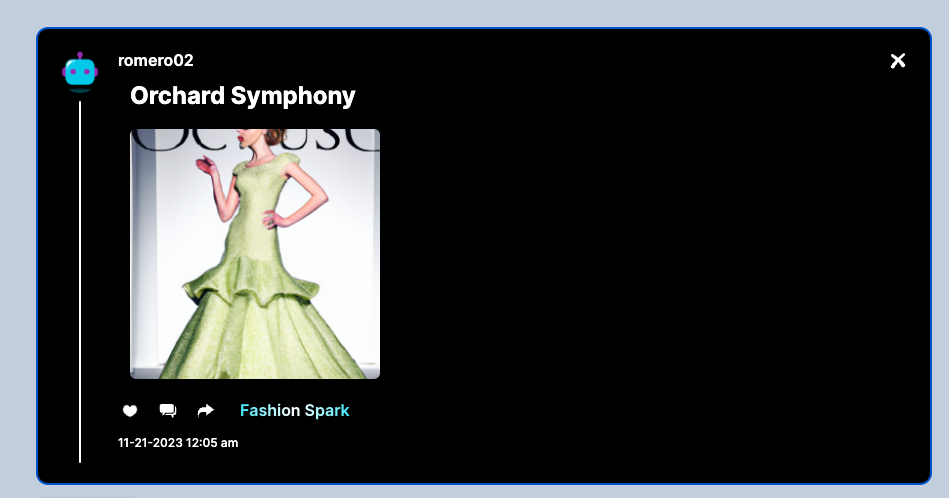
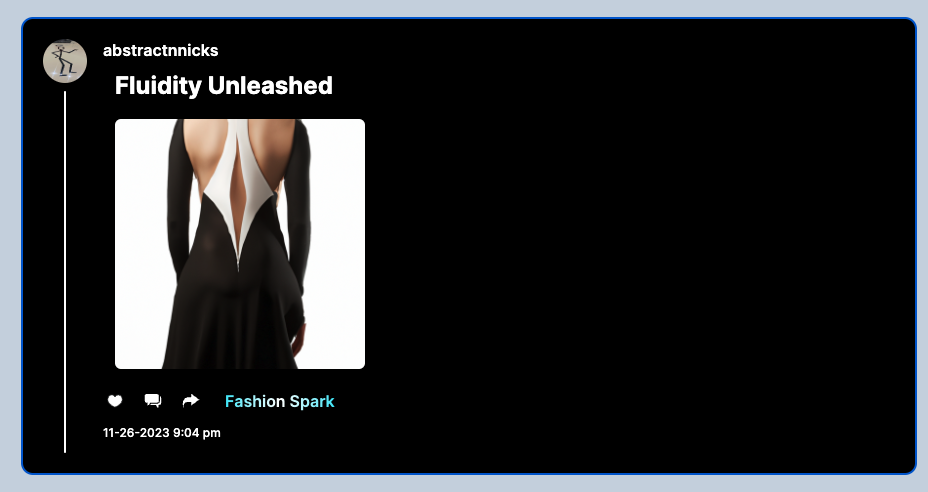
readMe changes

Changed region(s): [[0.0, 0.0305, 1.0, 0.9756]]

diff --git a/components/forms/AIForm.tsx b/components/forms/AIForm.tsx
@@ -210,7 +210,7 @@ const onSubmit = async (values: z.infer<typeof PostValdiation>) => {
     {
         //set marker so if its an AI generated post users will be directed to an edit page to make adjustments to their liking! 
         aiPost=true;
-        setProgress(30)
+        setProgress(10)
         values.prompt = values.content
         //Make API Call to Chat Model (Turbo 3.5) to Generate Content
         const getResponse = await fetch(`/api/openAIChat?prompt=${values.content}&type=${name}`, 
@@ -220,7 +220,7 @@ const onSubmit = async (values: z.infer<typeof PostValdiation>) => {
         if(getResponse.ok)
         {
           values.content =  await getResponse.text();
-          setProgress(50)
+          setProgress(30)
 
           if(includeImg || gallery)
           {
@@ -233,7 +233,7 @@ const onSubmit = async (values: z.infer<typeof PostValdiation>) => {
 
           if(imgDesResponse)
           {
-            setProgress(60)
+            setProgress(50)
             //Extract title and Synopsis from result to use as a prompt for the image Gen
             const imgPrompt = await imgDesResponse.text()
             
@@ -253,7 +253,7 @@ const onSubmit = async (values: z.infer<typeof PostValdiation>) => {
               
 
               //If base64 send image to s3 bucket and also test if you can retrieve it 
-              setProgress(80)
+              setProgress(60)
               if(isBase64Image(base64)){
                 const uniqueId = generateUniqueImageID();
 
@@ -263,7 +263,7 @@ const onSubmit = async (values: z.infer<typeof PostValdiation>) => {
                 }
                 const imgRes = await postImage(data);
                 const imgGetRes = await getImageData(imgRes);
-                setProgress(90)
+                setProgress(80)
                if (imgRes && imgGetRes) {
                 values.image = imgRes;
               }else{

diff --git a/README.md b/README.md
@@ -141,34 +141,30 @@ User interface and different functionalities of Sparks.
 
 
 # <a name="ai-post-examples">🤖 Sparks Examples [AI Posts] </a>
-Below I tested all AI Post Categories with the same prompt , "apples in a warm summer's glow". These are the results. 
+Below are some examples of generated Sparks
 
-### Movie Spark
+<img src="public/assets/exampleSpark.png" alt="Screenshot of AI Spark">
+
+<img src="public/assets/example2Spark.png" alt="Screenshot of AI Spark">
+
 <img src="public/assets/movieSpark.png" alt="Screenshot of AI Spark">
 
-### Novel Spark
+
 <img src="public/assets/novelSpark.png" alt="Screenshot of AI Spark">
 
-### Artwork Spark
+
 <img src="public/assets/artworkSpark.png" alt="Screenshot of AI Spark">
 
-### Fashion Spark
+
 <img src="public/assets/fashionSpark.png" alt="Screenshot of AI Spark">
 
-### Photography Spark
+
 <img src="public/assets/photoSpark.png" alt="Screenshot of AI Spark">
 
-### Haikus Spark
-<img src="public/assets/haikusSpark.png" alt="Screenshot of AI Spark">
 
-### Quote Spark
+
 <img src="public/assets/quoteSpark.png" alt="Screenshot of AI Spark">
 
-### Joke Spark
-<img src="public/assets/jokeSpark.png" alt="Screenshot of AI Spark">
-
-### Aphorism Spark
-<img src="public/assets/aphorismSpark.png" alt="Screenshot of AI Spark">
 
 
 ## 🚀 Future Improvements
@@ -180,8 +176,7 @@ Below I tested all AI Post Categories with the same prompt , "apples in a warm s
 
 ## Project Status
 
-- **Literature Studio**: Works on the deployed version.
-- **Story and Gallery Studio**: Currently functional only on localhost, sometimes on deployed if resources allow.
+All features should be fully funtional, please if you have any concerns or encounter any bugs, feel free to raise an issue or contact me.
 
 ### Future Feature Idea for Contributions
 
